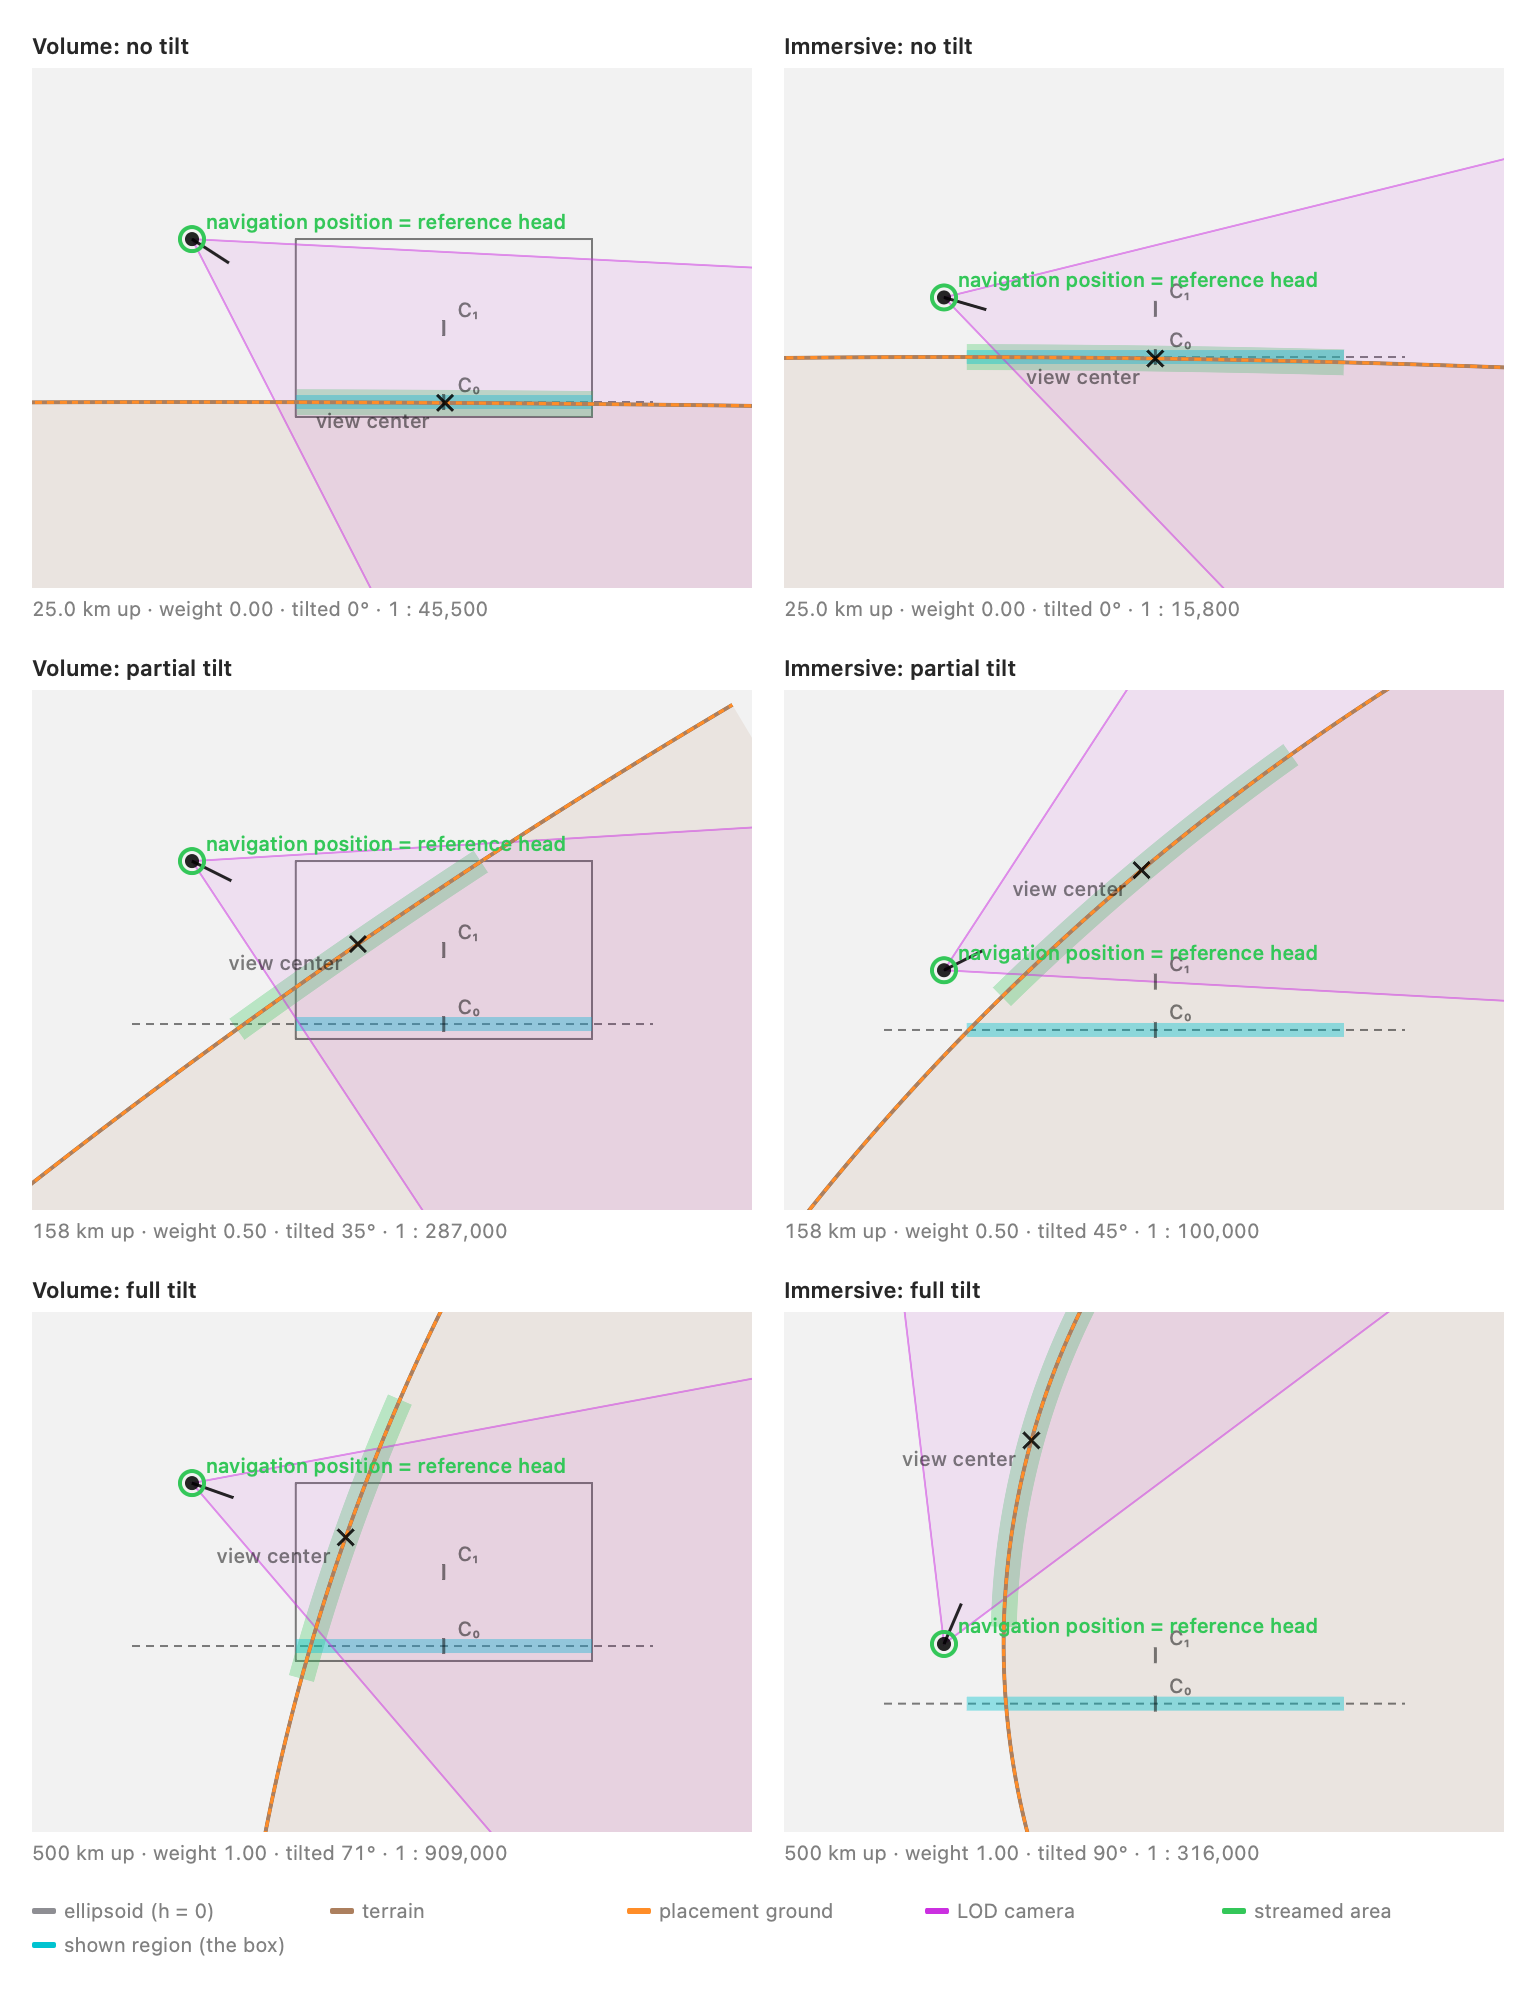
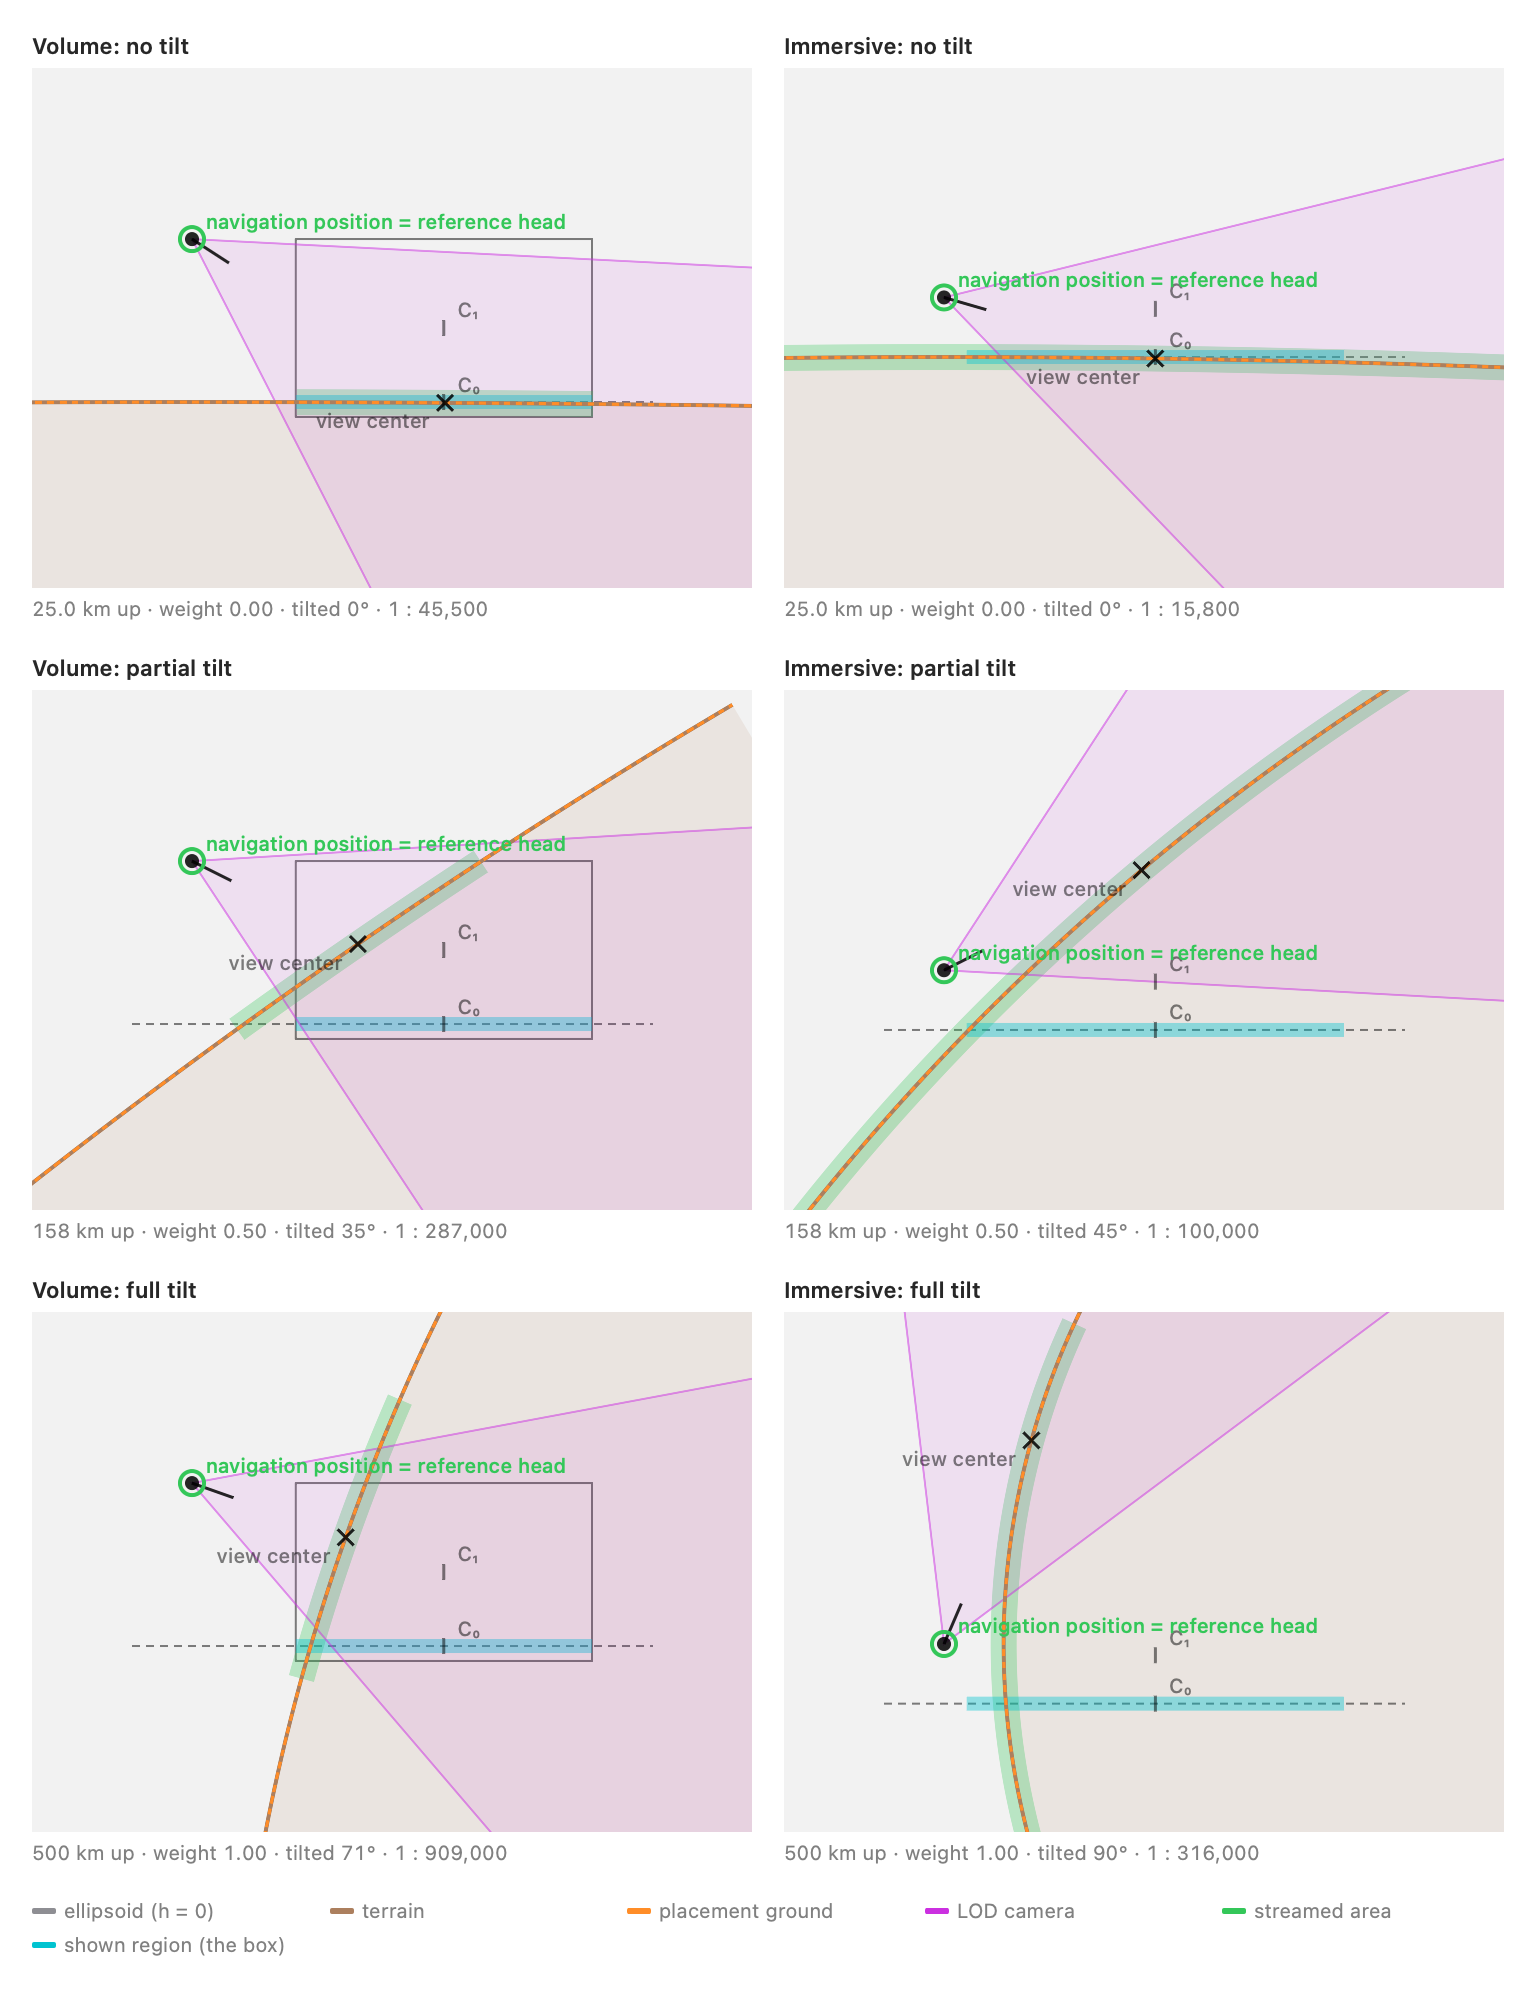
Share each host's streaming policy with the diagrams
MapPresentation.areaPolicy(_:) is now what MapModel, the Mac panel and
the tilt figures use. The figures had defaulted to the volume's policy
for the immersive space, so its streamed area stopped at the content
square instead of reaching the horizon.

diff --git a/docs/tilt-assist/make-figures.swift b/docs/tilt-assist/make-figures.swift
@@ -2,11 +2,13 @@
 // and the camera diagram's views. From the repository root:
 //
 //   swiftc -O -parse-as-library -o /tmp/tilt-figures Sources/Navigation/*.swift \
-//     Sources/MapPresentation.swift Sources/Diagrams/CameraDiagramView.swift docs/tilt-assist/make-figures.swift
+//     Sources/MapPresentation.swift Sources/StreamingSettings.swift Sources/TileSource.swift \
+//     Sources/Diagrams/CameraDiagramView.swift docs/tilt-assist/make-figures.swift
 //   /tmp/tilt-figures docs/tilt-assist/figures
 //
 // Nothing here restates the behavior: the heights shown are found from
-// EyeLevelModel.tiltWeight, the hosts' geometry comes from MapPresentation,
+// EyeLevelModel.tiltWeight, the hosts' geometry and streaming policy (with
+// the default settings) come from MapPresentation,
 // and the placement from EyeLevelModel.framing (through CameraDiagram). If
 // the behavior changes, rerun this and the figures follow.
 
@@ -63,7 +65,8 @@ func camera(at height: Double) -> CameraPose {
 
 func diagram(_ host: Host, _ stage: Stage) -> CameraDiagram {
     CameraDiagram(CameraDiagram.Inputs(camera: camera(at: stage.height), presentation: .room(host.room),
-                                       terrainHeight: 0, groundHeight: 0, containerSize: host.containerSize))
+                                       terrainHeight: 0, groundHeight: 0, containerSize: host.containerSize,
+                                       areaPolicy: host.presentation.areaPolicy(.default)))
 }
 
 func distance(_ meters: Double) -> String {

diff --git a/SourcesMac/CameraDiagramPanel.swift b/SourcesMac/CameraDiagramPanel.swift
@@ -83,14 +83,11 @@ struct CameraDiagramPanel: View {
         case .volume: .room(Self.room(.volume))
         case .immersive: .room(Self.room(.immersive))
         }
-        let settings = map.settings
         return CameraDiagram.Inputs(camera: values.camera, presentation: presentation,
                                     terrainHeight: values.terrain, groundHeight: values.ground,
                                     containerSize: host == .volume ? MapPresentation.volumeSize : nil,
-                                    areaPolicy: host == .immersive
-                                        ? .horizon(limitPerAltitude: settings.limitsImmersiveReach
-                                                   ? settings.immersiveReach : nil)
-                                        : .georeference(regionMultiplier: 1))
+                                    areaPolicy: (host == .immersive ? MapPresentation.immersive : .volume)
+                                        .areaPolicy(map.settings))
     }
 
     /// The map's camera, with the placement ground settled on its ground.

diff --git a/Sources/MapModel.swift b/Sources/MapModel.swift
@@ -715,11 +715,8 @@ final class MapModel {
     /// The area of interest each host streams by default, and the LOD camera
     /// at the design eye point.
     private func streamingInputs(for framing: AdaptiveModel.Framing) -> StreamingInputs {
-        let policy: AOIPolicy = presentation.host == .immersive
-            ? .horizon(limitPerAltitude: settings.limitsImmersiveReach ? settings.immersiveReach : nil)
-            : .georeference(regionMultiplier: 1)
-        return StreamingInputs.room(framing: framing, room: room, camera: navigation.camera, policy: policy,
-                                    groundHeight: placementGround.value)
+        StreamingInputs.room(framing: framing, room: room, camera: navigation.camera,
+                             policy: presentation.areaPolicy(settings), groundHeight: placementGround.value)
     }
 
     // MARK: Tracks

diff --git a/Sources/MapPresentation.swift b/Sources/MapPresentation.swift
@@ -48,6 +48,16 @@ struct MapPresentation: Identifiable, Hashable {
 
     static let all: [MapPresentation] = [.volume, .immersive]
 
+    /// The area of interest this host streams: the shown region in the
+    /// volume, and in the immersive space everything visible, out to the
+    /// horizon, unless `settings` limits its reach.
+    func areaPolicy(_ settings: StreamingSettings) -> AOIPolicy {
+        switch host {
+        case .volume: .georeference(regionMultiplier: 1)
+        case .immersive: .horizon(limitPerAltitude: settings.limitsImmersiveReach ? settings.immersiveReach : nil)
+        }
+    }
+
     /// The presentation with `id`. Saved view states from before the
     /// immersive modes became one say "immersive5x", or earlier "floor5x".
     static func withID(_ id: String) -> MapPresentation? {

diff --git a/docs/tilt-assist/README.md b/docs/tilt-assist/README.md
@@ -25,7 +25,7 @@ How to read it:
 - **Orange** is the placement ground, the ground estimate the scale is set from. Level, it lies on the base plane. The terrain is drawn too, at the same height here.
 - **The cross** is the view center, which gestures grab and streaming centers on. In the volume it's the ground along your line of sight to a point that rises from C₀ toward C₁ as the tilt grows, which keeps it in the box. In the immersive space it's the ground that was beneath C₀ while level, carried by the tilt.
 - **The box** (volume only) is the volume's bounds. **Teal** is the content square on the base plane: what the box shows, or in the immersive space, the area for gestures and the ground sample.
-- **Purple** is the LOD camera streaming uses, and **green** the streamed area.
+- **Purple** is the LOD camera streaming uses, and **green** the streamed area, with the default streaming settings.
 
 The scale comes from the navigation position's height above the placement ground, and the tilt doesn't change it.
 
@@ -38,11 +38,11 @@ The Mac app's camera diagram (⌥⌘D) draws the same views for any position. Ch
 From the repository root:
 
 ```bash
-swiftc -O -parse-as-library -o /tmp/tilt-figures Sources/Navigation/*.swift Sources/MapPresentation.swift Sources/Diagrams/CameraDiagramView.swift docs/tilt-assist/make-figures.swift
+swiftc -O -parse-as-library -o /tmp/tilt-figures Sources/Navigation/*.swift Sources/MapPresentation.swift Sources/StreamingSettings.swift Sources/TileSource.swift Sources/Diagrams/CameraDiagramView.swift docs/tilt-assist/make-figures.swift
 ```
 
 ```bash
 /tmp/tilt-figures docs/tilt-assist/figures
 ```
 
-[make-figures.swift](make-figures.swift) finds the three heights from `EyeLevelModel.tiltWeight` and takes each host's geometry from `MapPresentation`, so it needs no changes when those do.
+[make-figures.swift](make-figures.swift) finds the three heights from `EyeLevelModel.tiltWeight` and takes each host's geometry and streaming policy (with the default settings) from `MapPresentation`, so it needs no changes when those do.
